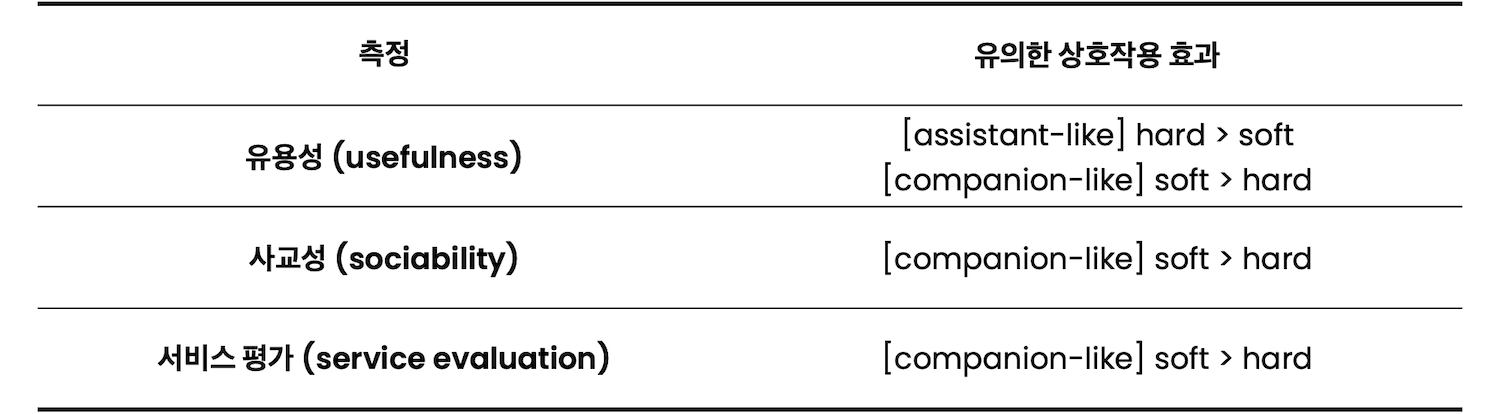
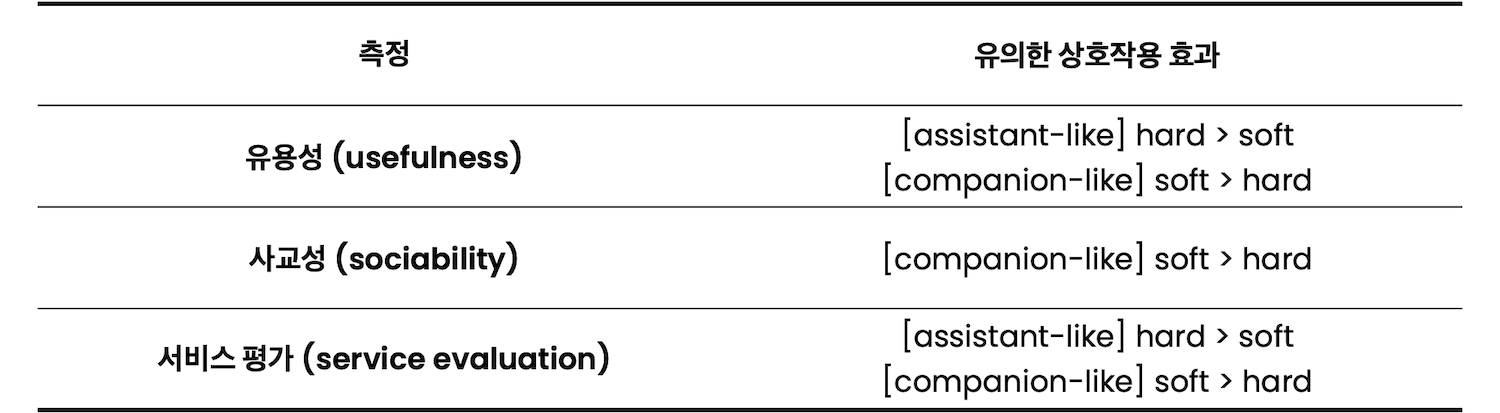
test

diff --git a/_posts/projects/2021-01-01-modularsmartspeaker.md b/_posts/projects/2021-01-01-modularsmartspeaker.md
@@ -287,7 +287,8 @@ Design Question: "사람들의 <span style="background-color:#EBEBEB">선호</sp
 01. 발화가 <span style="background-color:#EBEBEB">존댓말(assistant-like)</span>일 때, <span style="background-color:#EBEBEB">플라스틱(hard)</span> 스마트 스피커가 천(soft) 스마트 스피커보다 더 <span style="background-color:#EBEBEB">유용</span>하다고 인식했다. <font size="2em">(<i>M</i><sub>soft</sub> = 5.01, <i>SD</i> = 1.03 vs. <i>M</i><sub>hard</sub> = 5.24, <i>SD</i> = 0.90, <i>t</i> = 2.302, df = 47, <i>p</i> = 0.026)</font>
 02. 발화가 <span style="background-color:#EBEBEB">반말(companion-like)</span>일 때, <span style="background-color:#EBEBEB">천(soft)</span> 스마트 스피커가 플라스틱(hard) 스마트 스피커보다 더 <span style="background-color:#EBEBEB">유용</span>하다고 인식했다. <font size="2em">(<i>M</i><sub>soft</sub> = 5.33, <i>SD</i> = 0.99 vs. <i>M</i><sub>hard</sub> = 4.94, <i>SD</i> = 1.06, <i>t</i> = 2.548, df = 47, <i>p</i> = 0.014)</font>
 03. 발화가 <span style="background-color:#EBEBEB">반말(companion-like)</span>일 때, <span style="background-color:#EBEBEB">천(soft)</span> 스마트 스피커가 플라스틱(hard) 스마트 스피커보다 더 <span style="background-color:#EBEBEB">사교적</span>이라고 인식했다. <font size="2em">(<i>M</i><sub>soft</sub> = 4.51, <i>SD</i> = 1.30 vs. <i>M</i><sub>hard</sub> = 3.53, <i>SD</i> = 1.08, <i>t</i> = 4.232, df = 47, <i>p</i> = 0.000)</font>
-04. 발화가 <span style="background-color:#EBEBEB">반말(companion-like)</span>일 때, <span style="background-color:#EBEBEB">천(soft)</span> 스마트 스피커가 플라스틱(hard) 스마트 스피커보다 더 <span style="background-color:#EBEBEB">서비스가</span> 좋다고 인식했다. <font size="2em">(<i>M</i><sub>soft</sub> = 5.24, <i>SD</i> = 1.07 vs. <i>M</i><sub>hard</sub> = 4.58, <i>SD</i> = 1.15, <i>t</i> = 3.087, df = 47, <i>p</i> = 0.003)</font>
+04.  발화가 <span style="background-color:#EBEBEB">존댓말(assistant-like)</span>일 때, <span style="background-color:#EBEBEB">플라스틱(hard)</span> 스마트 스피커가 천(soft) 스마트 스피커보다 더 <span style="background-color:#EBEBEB">서비스가</span> 좋다고 인식했다. <font size="2em">(<i>M</i><sub>soft</sub> = 5.10, <i>SD</i> = 1.01 vs. <i>M</i><sub>hard</sub> = 5.15, <i>SD</i> = 1.01, <i>t</i> = 0.368, df = 47, <i>p</i> = 0.715)</font>
+05. 발화가 <span style="background-color:#EBEBEB">반말(companion-like)</span>일 때, <span style="background-color:#EBEBEB">천(soft)</span> 스마트 스피커가 플라스틱(hard) 스마트 스피커보다 더 <span style="background-color:#EBEBEB">서비스가</span> 좋다고 인식했다. <font size="2em">(<i>M</i><sub>soft</sub> = 5.24, <i>SD</i> = 1.07 vs. <i>M</i><sub>hard</sub> = 4.58, <i>SD</i> = 1.15, <i>t</i> = 3.087, df = 47, <i>p</i> = 0.003)</font>
 <br>
 
 <br>
@@ -301,7 +302,7 @@ Design Question: "사람들의 <span style="background-color:#EBEBEB">선호</sp
 피실험자의 모듈형 스피커에 대한 전반적인 인식을 정리하면 다음과 같다.
 01. 매끄러운(smooth) 표면보다 <span style="background-color:#EBEBEB">거친(rough)</span> 표면을 가진 스마트 스피커를 더 <span style="background-color:#EBEBEB">유용</span>하고 <span style="background-color:#EBEBEB">서비스가 좋다</span>고 인식했다.
 02. 플라스틱(hard)보다 <span style="background-color:#EBEBEB">천(soft)</span> 스마트 스피커를 더 <span style="background-color:#EBEBEB">사교적</span>이고 <span style="background-color:#EBEBEB">서비스가 좋다</span>고 인식했다.
-03. 발화가 <span style="background-color:#EBEBEB">존댓말(assistant-like)</span>일 때, 천(soft)보다 <span style="background-color:#EBEBEB">플라스틱(hard)</span> 스마트 스피커를 더 <span style="background-color:#EBEBEB">유용</span>하다고 인식했다.
+03. 발화가 <span style="background-color:#EBEBEB">존댓말(assistant-like)</span>일 때, 천(soft)보다 <span style="background-color:#EBEBEB">플라스틱(hard)</span> 스마트 스피커를 더 <span style="background-color:#EBEBEB">유용</span>하고 <span style="background-color:#EBEBEB">서비스가 좋다</span>고 인식했다.
 04. 발화가 <span style="background-color:#EBEBEB">반말(companion-like)</span>일 때, 플라스틱(hard)보다 <span style="background-color:#EBEBEB">천(soft)</span> 스마트 스피커를 더 <span style="background-color:#EBEBEB">유용</span>하고 <span style="background-color:#EBEBEB">사교적</span>이며 <span style="background-color:#EBEBEB">서비스가 좋다</span>고 인식했다.
 
 <br>
@@ -323,8 +324,8 @@ Design Question: "사람들의 <span style="background-color:#EBEBEB">선호</sp
 <br>
 
 스마트 스피커의 <span style="background-color:#EBEBEB">발화</span> 방식에 따라 스마트 스피커의 <span style="background-color:#EBEBEB">촉각</span> 설정이 달라질 수 있다.
-01. <span style="background-color:#EBEBEB">격식체</span>를 사용하는 스마트 스피커를 사용자가 더 <span style="background-color:#EBEBEB">유용</span>하게 느끼길 바랄 때, <span style="background-color:#EBEBEB">딱딱한</span> 소재를 적용할 수 있다.  
-02. <span style="background-color:#EBEBEB">비격식체</span>를 사용하는 스마트 스피커를 사용자가 더 <span style="background-color:#EBEBEB">유용</span>하고 <span style="background-color:#EBEBEB">사교적</span>이며 <span style="background-color:#EBEBEB">서비스가 좋게</span> 느끼길 바랄 때, <span style="background-color:#EBEBEB">유연한</span> 소재를 적용할 수 있다.  
+01. <span style="background-color:#EBEBEB">격식체</span>를 사용하는 스마트 스피커를 사용자가 더 <span style="background-color:#EBEBEB">유용</span>하고 <span style="background-color:#EBEBEB">서비스가 좋다</span>고 느끼길 바랄 때, <span style="background-color:#EBEBEB">딱딱한</span> 소재를 적용할 수 있다.  
+02. <span style="background-color:#EBEBEB">비격식체</span>를 사용하는 스마트 스피커를 사용자가 더 <span style="background-color:#EBEBEB">유용</span>하고 <span style="background-color:#EBEBEB">사교적</span>이며 <span style="background-color:#EBEBEB">서비스가 좋다</span>고 느끼길 바랄 때, <span style="background-color:#EBEBEB">유연한</span> 소재를 적용할 수 있다.  
 
 또한, <span style="background-color:#EBEBEB">상황</span>에 따라 스마트 스피커의 <span style="background-color:#EBEBEB">촉각</span> 설정이 달라질 수 있다.
 01. <span style="background-color:#EBEBEB">거친</span> 마감: 유용한 <span style="background-color:#EBEBEB">정보</span>를 제공하는 상황에서 적용 가능
